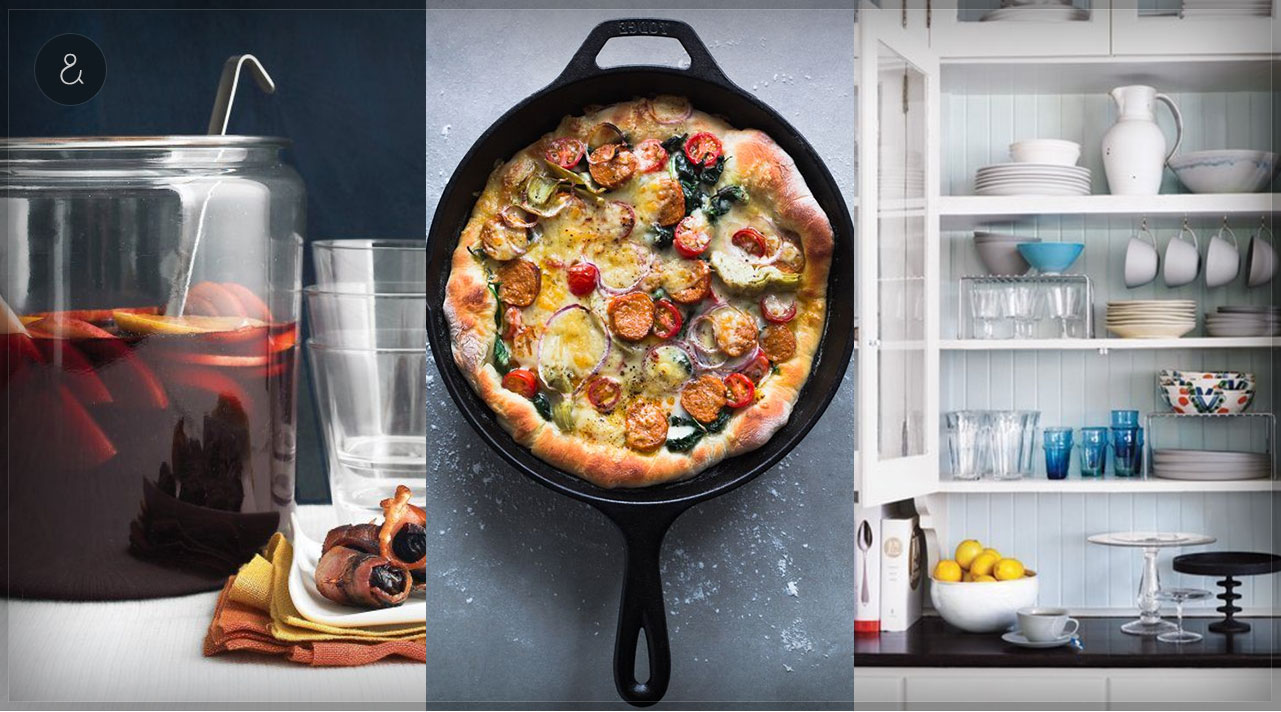
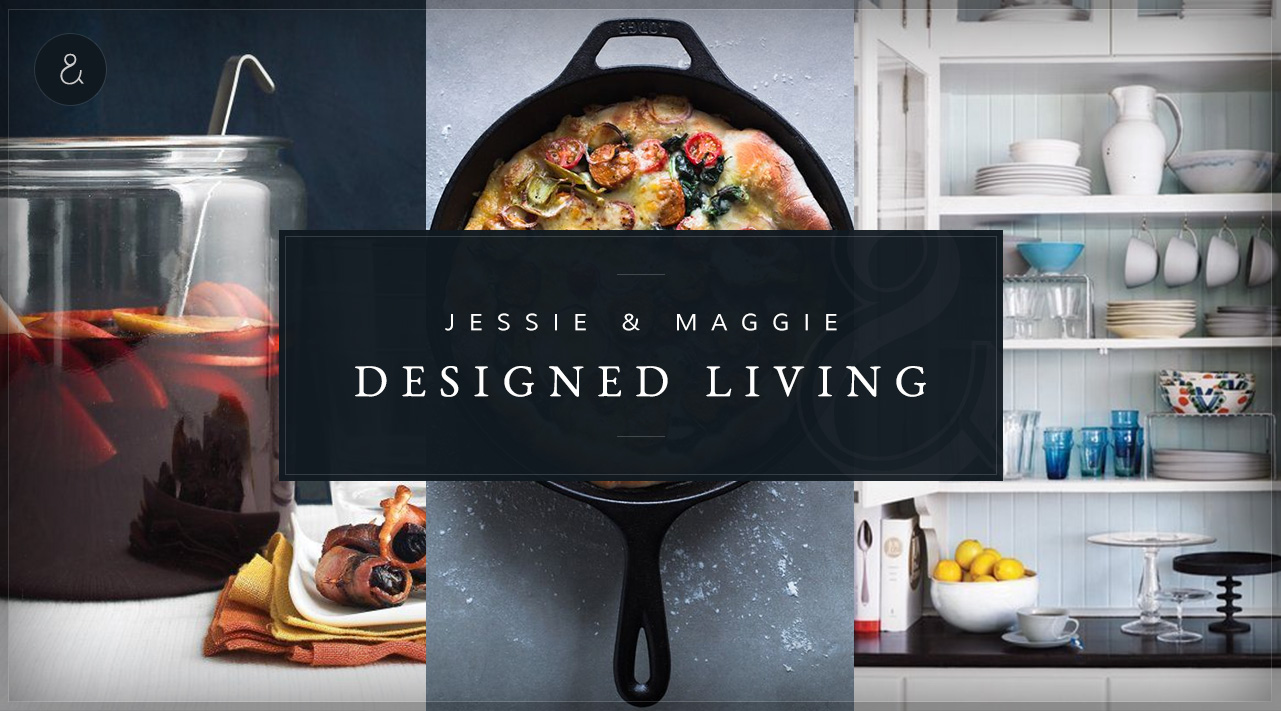
updates
from Dean

diff --git a/code/style.css b/code/style.css
@@ -3,39 +3,13 @@ body {
 	background: white;
 }
 
-.jumbotron {
-	color: white;
-}
 .hero {
 	text-transform: uppercase;
 	color:white;
 	letter-spacing: .6em;
+	content: "";
 }
-.newbadge {
-	background: rgba(34, 46, 60, 0.95);
-	display:block;
-	position: absolute;
-	text-align: center;
-	height: 20%;
-	margin-top:15em;
-	margin-left: 21em;
-	margin-right: 4em;
-	padding:2.3em 2em;
-	border: solid 1px rgba(255, 255, 255, 0.2);
 
-}
-.hero h1 {
-	font-family: 'EB Garamond', serif;
-	text-align: center;
-  font-size: 2.5vw;
-  line-height: 45px;
-  margin: 0;
-}
-.hero h2 {
-  font-weight: normal;
-  font-size: 1em;
-  margin: 0;
-}
 @media only screen and (max-width:62.5em) {
     .newbadge {
     	background: rgba(34, 46, 60, 0.95);
@@ -44,8 +18,7 @@ body {
 			text-align: center;
 			vertical-align: middle;
 			height: 20%;
-		/*	width: 80%;
-		*/margin-top:3em;
+			margin-top:3em;
 			margin-left: 4em;
 			margin-right: 4em;
 			padding:.9em 2em;
@@ -110,24 +83,6 @@ only screen and (min-resolution: 2dppx) and (min-width: 539px) {
 }
 
 
-.badge {
-	background: url('images/badge_bg.png') no-repeat top right;
-	background-color: #222e3c; 
-	font-size: 2em;
-	text-align: center;
-	text-transform: uppercase;
-	padding:2em 3em;
-}
-.badge h1 {
-	font-family: 'EB Garamond', serif;
-	font-size: 1.5em;
-	letter-spacing: .2em;
-}
-.badge h2 {
-	font-family: 'Muli', sans-serif; 
-	font-size: .75em;
-	letter-spacing: .2em;
-}
 .small-stroke-white {
 	width:50px;
 	height:1px;
@@ -148,11 +103,15 @@ only screen and (min-resolution: 2dppx) and (min-width: 539px) {
 }
 .pod {
 	border-right:1px solid #ededed;
+	border-bottom:1px solid #ededed;
 	text-align: center;
 	padding: 3em 0 2em 0;
+	font-family: 'EB Garamond', serif;
+	font-size: 1.4em;
 }
 .number {
 	line-height: 110px;
+	font-size: 1.4em;
 }
 .pod h3 {
 	font-family: 'Muli', sans-serif;
@@ -164,6 +123,9 @@ only screen and (min-resolution: 2dppx) and (min-width: 539px) {
 .pod-right {
 	text-align: center;
 	padding: 3em 0 2em 0;
+	font-family: 'EB Garamond', serif;
+	font-size: 1.4em;
+
 }
 .pod-right h3 {
 	font-family: 'Muli', sans-serif;
@@ -174,9 +136,7 @@ only screen and (min-resolution: 2dppx) and (min-width: 539px) {
 }
 .contact {
 	background: url('images/contact_bg.png') repeat top right;
-	border-bottom:1px solid #ededed;
-	border-top:1px solid #ededed;
-	
+	border-bottom:1px solid #ededed;	
 	text-align: center;
 	padding:5em 0;
 }
@@ -203,7 +163,8 @@ only screen and (min-resolution: 2dppx) and (min-width: 539px) {
 	color: #222e40;
 }
 .bios {
-	padding: 3em 1em;
+	padding: 3em 2em 3em 2em;
+	font-size: 1.4em;
 }
 .bios h4 {
 	font-family: 'EB Garamond', serif;
@@ -219,7 +180,8 @@ only screen and (min-resolution: 2dppx) and (min-width: 539px) {
   margin: 1em 0;
 }
 .pics {
-	text-align: center;	
+	padding: 0em 2em 3em 0em;
+	text-align: center;
 }
 .footer {
 	background-color: #222e3c;
@@ -228,6 +190,7 @@ only screen and (min-resolution: 2dppx) and (min-width: 539px) {
 	letter-spacing: .2em;
 	padding:2em 0;
 	text-align: center;
+	font-size: 1.5em;
 }
 .email {
 	font-family: 'EB Garamond', serif;

diff --git a/code/index.html b/code/index.html
@@ -9,22 +9,15 @@
   </head>
 <body>
 
-<div class="container">
-  <div class="hero">
-    <div class="newbadge">
-      <div class="small-stroke-white"></div>
-        <h2>Jessie & Maggie</h2>
-        <h1>Designed Living</h1>
-      <div class="small-stroke-white"></div>
-    </div>
-    <span id="living" role="img" aria-label="Jessie & Maggie">
+<div class="hero">
+    <span id="living" role="img" aria-label="Jessie & Maggie, DESIGNED LIVING">
         <span class="inner">
         </span>
     </span>
   </div>
-</div>
+
     
-<div class="container">
+
   <div class="row">
     <div class="col-md-4 pod">
       <div class="number">#1</div>
@@ -45,13 +38,13 @@
       <div class="small-stroke-gray"></div>
     </div>
   </div>
-</div>
-<div class="container">
+
+
   <div class="row contact">
     <a class="btn btn-contact" href="/">CONTACT</a>
   </div>
-</div>
-<div class="container">
+
+
   <div class="row">
     <div class="col-md-3 pics">
       <img src="images/maggie.jpg" alt="Maggie Servais" style="max-width:100%;height:auto;">
@@ -70,13 +63,13 @@
       <p>Jessie Galloway draws on her background in interior architecture to provide design and organizational services in the San Francisco Bay Area. From home staging to furnishing, she understands how people interact with the structural boundaries of their spaces and creates an adaptable experience for residential and commercial clientele. A tastemaker who takes pleasure in bringing simplicity and style to everyday life, Jessie is passionate about pleasing her clients and consults on trend and design directions in a variety of categories. She holds an MFA from Academy of Art University. </p>
     </div>
   </div>
-</div>
-<div class="container">
+
+
   <div class="row footer">
     <p>415.860.0760</p>
     <p><a href="mailto:info@jessieandmaggie.com">info@jessieandmaggie.com</a></p>
   </div>
-</div>
+
 
 
     <script src="http://code.jquery.com/jquery.js"></script>
